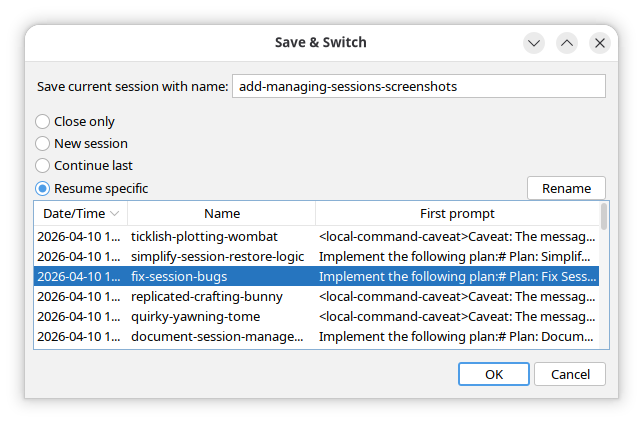
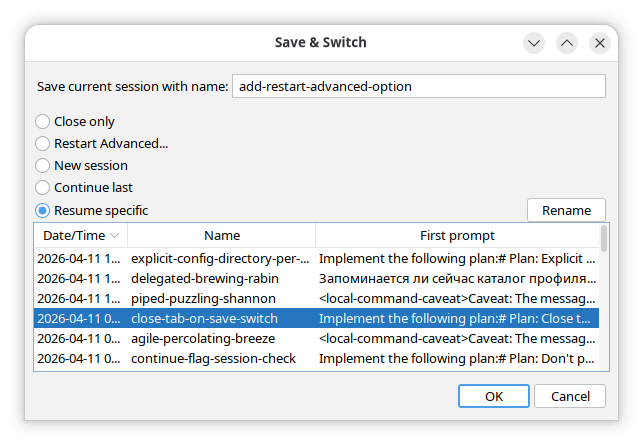
Updated the User Manual

diff --git a/docs/user-manual.md b/docs/user-manual.md
@@ -545,7 +545,10 @@ While a session is running, you can close it and, optionally, open a different o
 **Close button (⏻) in the status bar** → opens the **Save & Switch** dialog:
 
 - **Session name field** — pre-filled with the current session name. Giving a session a descriptive name makes it easier to find it later in the session list when using "Resume specific".
-- **Mode panel** — choose what happens next: **Close only** (just close, don't open another session) / New session / Continue last / Resume specific. For Resume specific, a session table is shown — see [Session selector panel](#session-selector-panel) for details.
+- **Mode panel** — choose what happens next:
+  - **Close only** — stop the session and close the tab. The conversation is saved and can be resumed later.
+  - **Restart Advanced...** — stop the session and return to the session selector panel in the same tab, allowing full reconfiguration (directory, profile, mode) before starting a new session.
+  - **New session** / **Continue last** / **Resume specific** — stop and immediately start another session in the same tab. For Resume specific, a session table is shown — see [Session selector panel](#session-selector-panel) for details.
 - Click **OK** to close (and optionally rename) the session and open the next one as chosen. When "Resume specific" is selected, you can also double-click a row in the session table to confirm immediately.
 
 ![Save & Switch dialog](screenshots/save-and-switch.png)
@@ -566,7 +569,8 @@ While a session is running, you can close it and, optionally, open a different o
 | Save current session and start a fresh one (can return later) | **Via ⏻:** optionally fill in a session name → New session → OK<br>**Via context menu:** right-click input area → Start New Session (no rename option) |
 | Start fresh without being able to return to current context | Type `/clear` in the input area and send it |
 | Switch to a specific past session | ⏻ → Resume specific → pick session → OK (or double-click the row)<br>or: right-click input area → Switch to Session… → pick session |
-| Close without opening another session | × on the tab<br>or: ⏻ → Close only → OK<br>or: ⏻ → fill in a session name → Close only → OK |
+| Close tab, keep session for later | × on the tab<br>or: ⏻ → Close only → OK<br>or: ⏻ → fill in a session name → Close only → OK |
+| Stop session, reconfigure everything, then start | ⏻ → Restart Advanced... → OK — returns to the selector panel in the same tab |
 
 ### Renaming a session
 